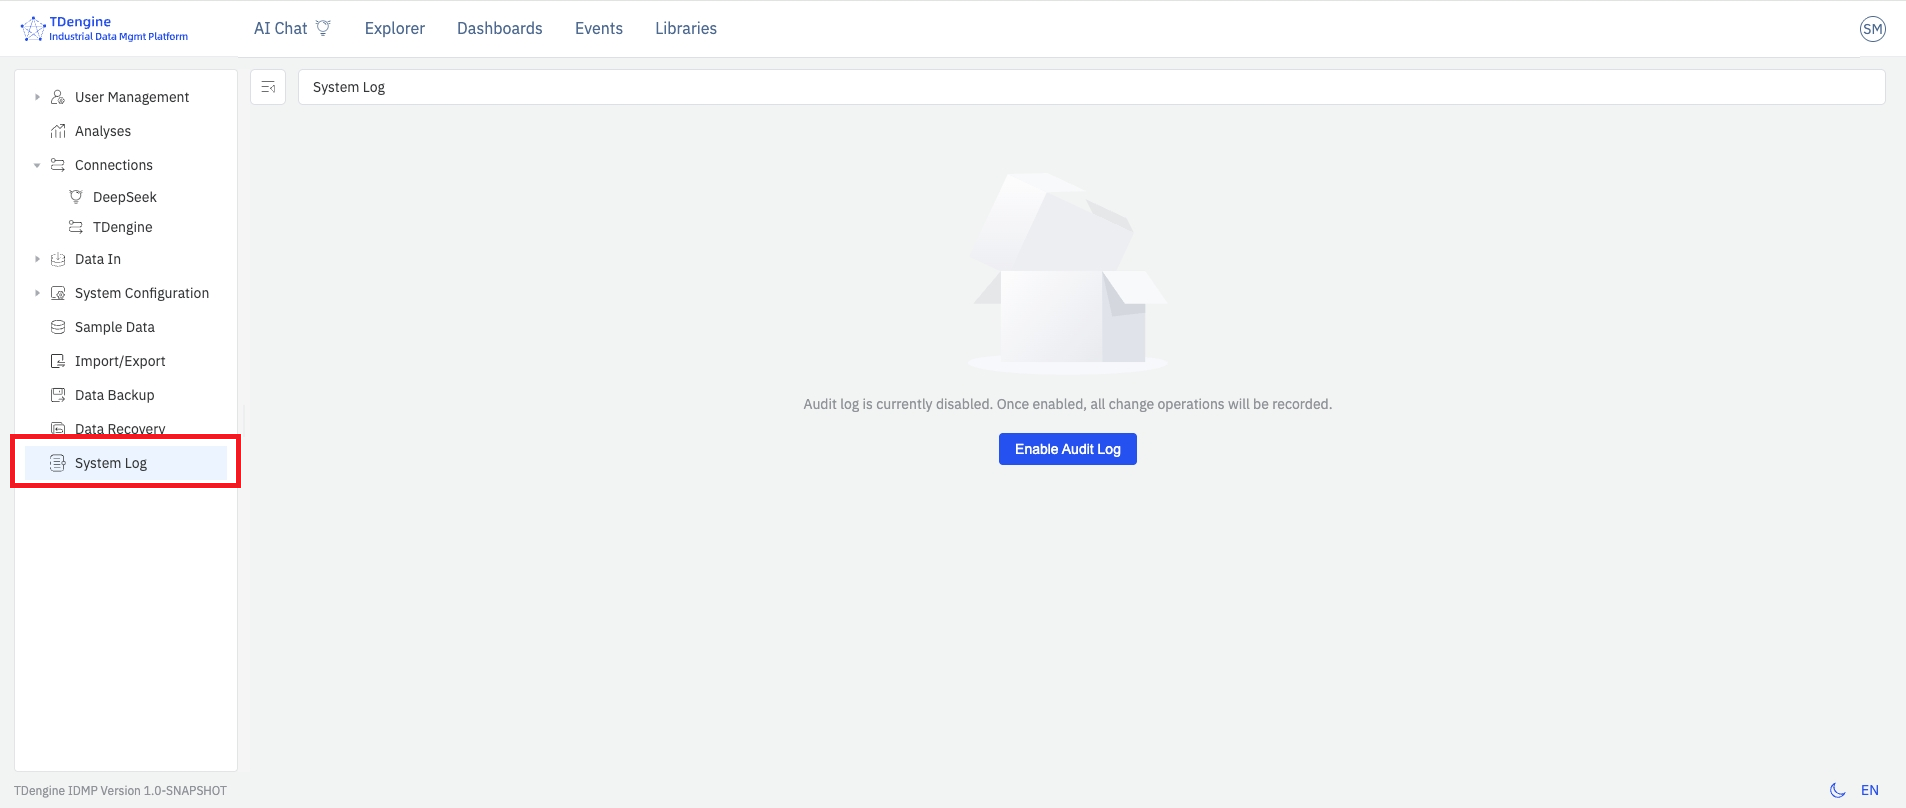
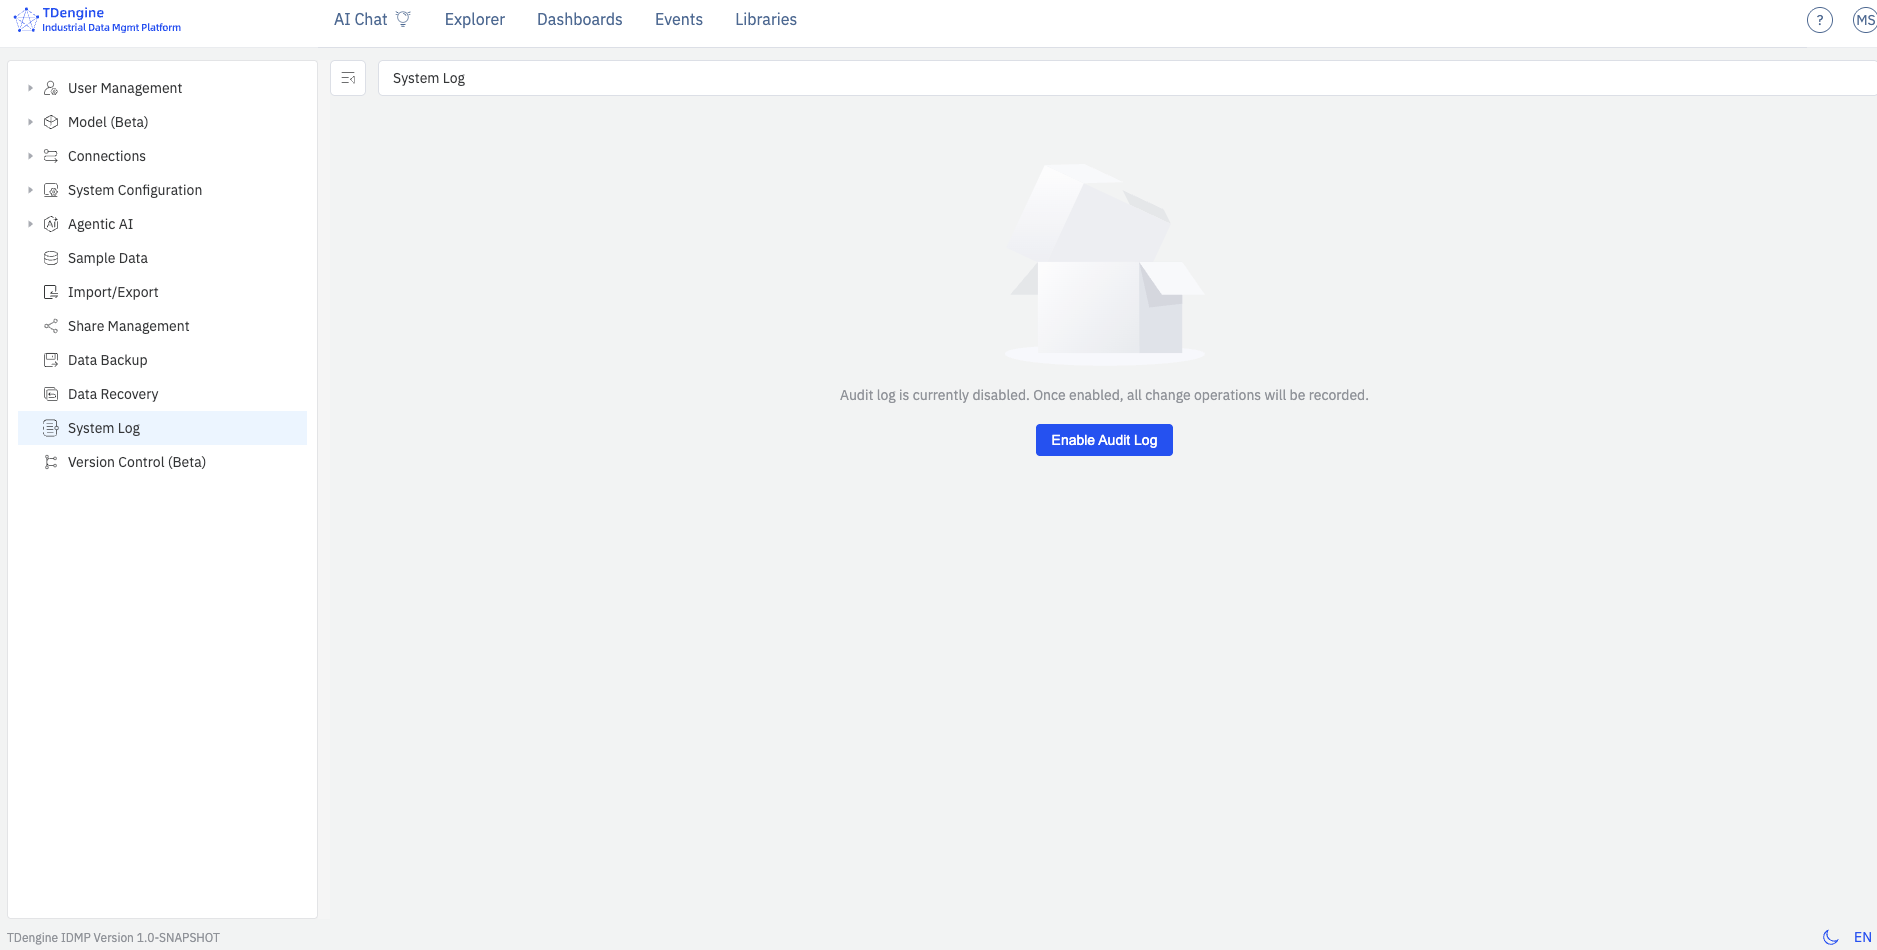
chore(docs): bootstrap GitLab subtree

diff --git a/docs/14-administration/07-audit-trail.md b/docs/14-administration/07-audit-trail.md
@@ -8,14 +8,14 @@ sidebar_label: 系统日志
 
 该功能参考 `21 CFR Part 11` 等行业规范对电子记录的可追溯性要求设计，适用于医药、食品、能源、重工等对操作留痕有严格要求的行业场景。
 
-系统日志菜单对所有具有相应权限的用户**持续可见**；功能的启用、关闭与管控级别配置，均统一在 **管理控制台 → 系统日志** 页面内完成。
+系统日志菜单对所有具有相应权限的用户**持续可见**；功能的启用、关闭在 **管理控制台 → 系统日志** 页面内进行设置。
 
 ## 14.7.1 主要特点
 
 - **全量记录：** 覆盖所有系统对象（元素、模板、数据源、用户、角色、权限、系统配置等）的创建、修改、删除以及登录登出等关键操作
 - **不可修改：** 日志一经写入即无法编辑或删除，任何用户（包括超级管理员）均不具备修改权限
 - **完整上下文：** 每条日志包含操作人、操作时间、操作类型、对象类型、对象标识、变更前后的关键字段值以及来源 IP 等信息
-- **可查询、可导出：** 具有查看权限的用户可按时间、用户、对象类型、操作类型等维度筛选查询，并将结果导出为 CSV 文件，供审计人员离线分析或归档
+- **可查询、可导出：** 具有查看权限的用户可按时间、关键词、对象类型、操作类型等维度筛选查询，并将结果导出为 CSV 文件，供审计人员离线分析或归档
 
 ## 14.7.2 权限管理
 
@@ -48,20 +48,18 @@ sidebar_label: 系统日志
 | :--------------: | -------------------------- | ------------------------------------------------------------------------------------------- |
 | **第一级** | Baseline 基础防护          | IDMP 的初始默认状态，不开启日志记录                                                         |
 | **第二级** | Log & Audit 日志记录       | 开启系统日志，记录所有操作日志，对普通用户无其他影响                                        |
-| **第三级** | Change Control 变更管理    | 开启变更管理，用户针对特定对象的修改需填写修改原因方可保存                                  |
+| **第三级** | Change Control 变更管理    | 开启变更管理，用户针对特定对象的修改，需填写变更原因方可保存                                  |
 | **第四级** | Review & Approval 复核管控 | 在变更管理基础上增加二次密码验证/电子签名，可选接入第三方审核（此级别功能规划中，暂未开放） |
 
-在日志配置页面，可针对不同资源对象分别配置是否启用变更管理，保存后即刻生效。
+在资源安全配置页面，可针对不同资源对象分别配置是否启用变更管理，保存后即刻生效。
 
 ## 14.7.4 启用系统日志
-
-系统日志的启用入口统一在 **管理控制台 → 系统日志** 菜单下，无需进入系统配置页面。
 
 ### 首次启用
 
 1. 进入 **管理控制台 → 系统日志**，右侧页面会提示当前日志功能尚未开启。
 2. 具有**配置系统日志**权限的用户，在提示信息下方可看到**开启系统日志**按钮，点击后系统弹出二次确认对话框。
-3. 再次点击**确认**后，系统将在 5 秒内自动刷新页面，日志功能即正式生效，后续所有被审计的操作均开始记录。
+3. 再次点击**确认**后，立即生效并刷新列表，日志功能即正式生效，后续所有被审计的操作均开始记录。
 
 :::note
 启用前发生的操作不会被追溯记录。建议在系统正式上线或有合规审计要求时尽早开启。
@@ -71,68 +69,54 @@ sidebar_label: 系统日志
 
 ### 日志配置
 
-当日志开启后，用户点击系统日志，进入日志查询与筛选页面。
+当日志开启后， 点击 **管理控制台 → 系统配置 → 资源安全配置**，进入资源安全配置页面。
 
-![首次启用系统日志](./images/audit-trail-03.png)
+![资源安全配置页面](./images/audit-trail-03.png)
 
-在该页面的右侧操作栏，有系统日志配置按钮，点击进入配置页面。
+此时，具有配置权限的用户可以点击编辑按钮，为每一类资源对象配置是否需要提交变更原因。一旦开通后，再对这类资源进行对应的操作时，必须提交变更原因。
 
-此时，具有配置权限的用户可以为每一类资源对象配置管理权限，即是否需要开通变更管理。变更管理一旦开通，这类资源对象的任意编辑操作必须提交变更原因。
+### 查看日志
 
-请注意，日志一旦开启，所有资源对象的日志记录均会自动覆盖，不可调整。
+1. 进入 **管理控制台 → 系统日志**，右侧页面会出现操作日志记录。
+2. 用户可根据资源类型，操作类型，时间段和关键词进行过滤查询。
+3. 用户点击**设置表格显示列**按钮控制列表显示字段（如新值，旧值等）。
 
-![首次启用系统日志](./images/audit-trail-06.png)
+![日志列表页面](./images/audit-log-list.png)
 
-### 关闭与重新配置
+### 开启与关闭
 
-1. 进入 **管理控制台 → 系统日志**，点击操作栏右侧的**日志配置**按钮（仅具有**配置系统日志**权限的用户可见）。
-2. 配置页面操作栏左侧提供**开启/关闭**切换按钮：
-   - 点击**关闭**后，日志记录、变更管理等所有选项均切换为关闭状态。
-   - 点击**开启**后，日志记录恢复为开启状态，变更管理各项默认为关闭，可按需手动开启。
+1. 进入 **管理控制台 → 系统日志**，点击操作栏右侧的**关闭系统日志**按钮（仅具有**配置系统日志**权限的用户可见）。
+   - 关闭后，系统将不再记录操作日志，但是用户可以查看之前的操作日志。
+   - 开启后，系统将继续记录操作日志。
 
-![日志配置页面](./images/audit-trail-04.png)
+![日志开启与关闭](./images/audit-log-switch.png)
 
-3. 当系统日志关闭后，日志配置页面仍可访问，只是页面元素变灰。管理员用户可以在本页面再次打开系统日志功能。此时系统将有弹窗提示，点击确认后，系统日志生效。
+## 14.7.5 保存变更原因
 
-![日志配置页面](./images/audit-trail-05.png)
-
-### 日志关闭后的状态
-
-- 系统日志菜单对具有查看或配置权限的用户**依然可见**。
-- 进入日志页面时会出现提示弹框：**当前系统日志功能已关闭，请联系管理员。**
-- 点击确认后，用户依然可以查询、浏览在日志功能关闭前已生成的历史日志记录。
-
-![日志关闭后界面](./images/audit-trail-02.png)
-
-## 14.7.5 保存修改原因
-
-启用**变更管理**（第三级管控）后，用户对特定 IDMP 系统对象进行**创建、修改或删除**等关键操作并点击保存时，系统会弹出**修改说明**对话框，要求用户填写本次变更的原因后方可继续。
+配置资源在修改、删除需要提交变更原因后，用户对该对象进行**修改或删除**等关键操作并点击保存时，系统会弹出对话框，要求用户填写本次变更的原因后方可继续。
 
 用户需要描述本次修改变更的业务背景或动因，如"工艺参数优化""设备更换""合规整改"等，并完整描述本次修改的具体对象和修改操作。
 
-点击**确定**后，系统会在完成对象变更的同时，将本次操作写入审计日志。日志中除包含 [14.7.6 查看与查询](#1476-查看与查询) 列出的常规字段外，还会额外保存以下内容：
+点击**验证并继续**后，系统会在完成对象变更的同时，将本次操作写入审计日志。日志中除包含 [14.7.6 查看与查询](#1476-查看与查询) 列出的常规字段外，还会额外保存以下内容：
 
-- **修改原因**：用户填写的修改原因全文
+- **变更原因**：用户填写的变更原因全文
 - **变更前状态快照**：对象在本次操作之前的完整属性值
 - **变更后状态快照**：对象在本次操作之后的完整属性值
 
 两份状态快照以 JSON 形式存储，必要时可用于对象的手动回滚。
 
-![日志关闭后界面](./images/audit-trail-07.png)
+![修改确认页面](./images/audit-reason.png)
 
 :::note
 
-- 只有在变更管理开启时，修改说明对话框才会出现；关闭变更管理后不会弹框，也不会保留状态快照。
-- 对于批量操作（如批量删除元素），修改原因会通过操作接口统一应用到批量操作涉及的所有对象日志。
+- 只有在系统日志开启时，弹出对话框且变更原因输入框才会出现；关闭不会弹框，也不会保存系统日志。
+- 对于批量操作（如批量删除元素），变更原因会通过操作接口统一应用到批量操作涉及的所有对象日志。
 
 :::
 
 ## 14.7.6 查看与查询
 
 具有**查看系统日志**权限的用户可通过 **管理控制台 → 系统日志** 访问日志列表。页面以表格形式展示所有已记录的操作日志，按时间倒序排列。
-
-具有**配置系统日志**权限的用户，在操作栏右侧还会显示**日志配置**入口按钮。
-
 日志列表包含以下字段，可以通过操作栏最右侧的设置按钮对显示列进行调整：
 
 | 字段               | 说明                                                       |
@@ -143,16 +127,16 @@ sidebar_label: 系统日志
 | **操作类型** | 创建、修改、删除、登录、登出等                             |
 | **对象类型** | 被操作对象的类别，如元素、模板、用户、角色、系统配置等     |
 | **对象标识** | 被操作对象的名称或唯一标识                                 |
-| **操作详情** | 本次操作涉及的具体字段变更，包含变更前后的值               |
+| **旧值** | 本次操作涉及的具体字段变更前的值               |
+| **新值** | 本次操作涉及的具体字段变更后的值               |
 | **操作结果** | 成功或失败；失败时附带错误信息                             |
 | **数据指纹** | 对该日志关键信息摘要的加密储存，确保原始信息完整且未被修改 |
 
 ### 筛选与搜索
 
-日志展示与查询页面提供筛选栏，支持按以下维度组合进行筛选，点击某条日志可查看详情信息。
+日志展示与查询页面提供筛选栏，支持按以下维度组合进行筛选，悬浮查看单元格完整内容。
 
 - **时间范围：** 选择起止时间，快速定位特定时段的操作
-- **操作用户：** 按用户名精确匹配
 - **对象类型：** 下拉选择，如元素、模板、用户等
 - **操作类型：** 下拉选择，如创建、修改、删除等
 - **关键字：** 在对象标识或操作详情中模糊搜索
@@ -171,7 +155,7 @@ sidebar_label: 系统日志
 
 ## 14.7.9 安全与合规说明
 
-- 具有**查看系统日志**权限的用户可访问日志列表页面并执行导出操作；
+- 具有**查看系统日志**权限的用户可访问日志列表页面并执行导出操作
 - 具有**配置系统日志**权限的用户可进行日志的开启、关闭及管控级别设置
 - 系统日志的写入由后端服务直接完成，任何前端接口均不提供修改或删除日志的能力
 - 日志的开启、关闭及配置变更操作本身均会被记录在审计日志中，确保配置变更可追溯
